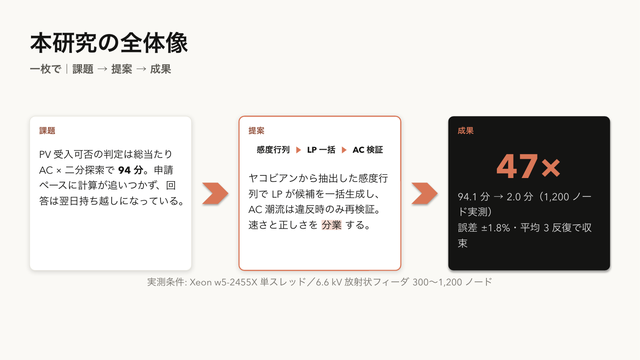
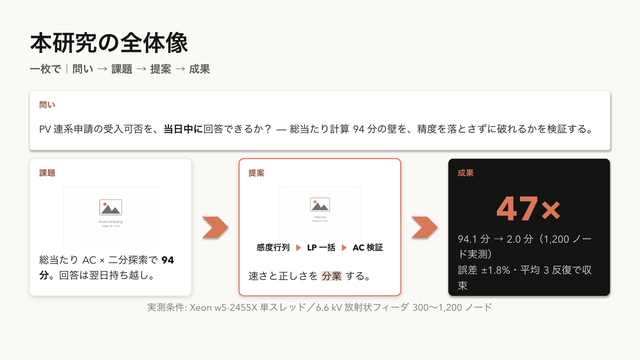
Structural graphical abstracts: figures inside panels + a question band
「いろんな図が構造的に並ぶのが重要」— a real GA is a composition of
figures, not three text cards:

- every ga-* panel accepts an ![](path) figure — drawn aspect-true
  between the label and the text, capped at 2.4in, and fitted to
  whatever height remains after the body/kpi/steps reserve their room
  (a portrait figure can no longer starve the text into overflow);
  missing files get the themed placeholder, so the GA too can ship
  frames first
- ga-top: an optional full-width band above the row for the research
  question / background (label + body + optional right-aligned figure)
- template 58 shows the structural form (question band + figure slots)

181 passed; the live Attention demo GA (auto-extracted Figure 2 inside
the method panel) is doctor-clean; gallery regenerated.

Claude-Session: https://claude.ai/code/session_017fP3X4NokWzessKVkvdYeN

diff --git a/src/marp_pptx/builder.py b/src/marp_pptx/builder.py
@@ -2759,10 +2759,41 @@ class PptxBuilder:
         pad = int(Pt(14))
         inner = pw - pad * 2
         label_h = int(Inches(0.34))
-        # measure: tallest panel decides the shared height
+
+        def _panel_img_h(pdata, width):
+            """Height the panel's figure takes at `width` (aspect-true,
+            capped) — placeholders count like a 16:10 image."""
+            if not pdata.get("image"):
+                return 0
+            f = self._image_or_placeholder(pdata["image"])
+            if not f:
+                return 0
+            from PIL import Image as PImage
+            with PImage.open(f) as im:
+                iw, ih = im.size
+            pdata["_img_file"] = f
+            pdata["_img_wh"] = (iw, ih)
+            return int(min(Inches(2.4), width * ih / iw))
+
+        # optional full-width top band (背景/問い) above the row
+        tdata = ga.get("top") or {}
+        top_h = 0
+        if tdata:
+            t_img_w = int(rwidth * 0.30)
+            t_img_h = _panel_img_h(tdata, t_img_w - pad)
+            t_txt_w = rwidth - pad * 2 - (t_img_w if t_img_h else 0)
+            t_body_h = int(self._estimate_text_height(
+                tdata.get("body", "").split("\n"), SZ_ZONE_B,
+                width=t_txt_w, line_spacing=LINE_BODY)) if tdata.get("body") else 0
+            top_h = max(int(Inches(0.9)),
+                        label_h + int(Pt(6)) + t_body_h + pad * 2,
+                        (t_img_h + pad * 2) if t_img_h else 0)
+
+        # measure: tallest row panel decides the shared height
         need = int(Inches(1.6))
         for key, pdata in panels:
             h = label_h + int(Pt(8))
+            h += _panel_img_h(pdata, inner) + (int(Pt(6)) if pdata.get("image") else 0)
             if key == "result" and pdata.get("kpi"):
                 h += int(Pt(SZ_METRIC.pt * 1.15 * metrics.DEFAULT_LINE_FACTOR))
             if pdata.get("steps"):
@@ -2775,8 +2806,45 @@ class PptxBuilder:
         foot = ga.get("foot", "")
         foot_h = (int(self._estimate_text_height([foot], SZ_SMALL, width=rwidth))
                   + int(Inches(0.14))) if foot else 0
-        ph = int(min(need, rheight - foot_h - int(Inches(0.1))))
-        top = rtop + max(0, (rheight - ph - foot_h) // 2)
+        band_gap = int(Inches(0.18)) if top_h else 0
+        ph = int(min(need, rheight - foot_h - top_h - band_gap - int(Inches(0.1))))
+        top = rtop + max(0, (rheight - ph - foot_h - top_h - band_gap) // 2)
+
+        if tdata:
+            tb_bx = slide.shapes.add_shape(MSO_SHAPE.ROUNDED_RECTANGLE,
+                                           rleft, int(top), rwidth, top_h)
+            tb_bx.adjustments[0] = CARD_RADIUS
+            tb_bx.fill.solid(); tb_bx.fill.fore_color.rgb = self.LIGHT
+            tb_bx.line.color.rgb = self.HAIRLINE
+            tb_bx.line.width = HAIRLINE_W
+            self._no_shadow(tb_bx)
+            ty = top + pad
+            lb = self._add_textbox(slide, int(rleft + pad), int(ty),
+                                   int(rwidth - pad * 2), label_h)
+            self._kicker_para(lb.text_frame.paragraphs[0],
+                              tdata.get("label", "背景"),
+                              color=self._text_safe(self.ACCENT, self.LIGHT),
+                              tracking=160)
+            ty += label_h + int(Pt(4))
+            if tdata.get("_img_file"):
+                iw, ih = tdata["_img_wh"]
+                dw = int(rwidth * 0.30) - pad
+                dh = int(min(top_h - pad * 2 - label_h, dw * ih / iw))
+                dw = int(dh * iw / ih)
+                slide.shapes.add_picture(tdata["_img_file"],
+                                         int(rleft + rwidth - pad - dw),
+                                         int(top + (top_h - dh) // 2), dw, dh)
+            if tdata.get("body"):
+                t_txt_w = rwidth - pad * 2 - (int(rwidth * 0.30)
+                                              if tdata.get("_img_file") else 0)
+                bb = self._add_textbox(slide, int(rleft + pad), int(ty),
+                                       int(t_txt_w), int(top + top_h - pad - ty))
+                tf = bb.text_frame; tf.word_wrap = True
+                for j, line in enumerate(tdata["body"].split("\n")):
+                    pl = tf.paragraphs[0] if j == 0 else tf.add_paragraph()
+                    self._set_rich_text(pl, line, SZ_ZONE_B, self.FG)
+                    pl.line_spacing = LINE_BODY
+            top += top_h + band_gap
 
         x = rleft
         for pi, (key, pdata) in enumerate(panels):
@@ -2810,6 +2878,31 @@ class PptxBuilder:
                      else self._text_safe(self.ACCENT, self.SURFACE))
             self._kicker_para(lp, label, color=l_col, tracking=160)
             cy += label_h + int(Pt(4))
+            if pdata.get("_img_file"):
+                # Reserve the text blocks first; the figure takes what's left
+                # (a portrait figure must not starve the body into overflow).
+                reserved = 0
+                if key == "result" and pdata.get("kpi"):
+                    reserved += int(Pt(SZ_METRIC.pt * 1.15
+                                       * metrics.DEFAULT_LINE_FACTOR))
+                if pdata.get("steps"):
+                    reserved += int(Inches(0.5))
+                if pdata.get("body"):
+                    reserved += int(self._estimate_text_height(
+                        pdata["body"].split("\n"), SZ_ZONE_B, width=inner,
+                        line_spacing=LINE_BODY))
+                max_img_h = (top + ph - pad) - cy - reserved - int(Pt(6))
+                iw, ih = pdata["_img_wh"]
+                dh = int(min(Inches(2.4), inner * ih / iw, max(max_img_h, 0)))
+                if dh >= int(Inches(0.45)):
+                    dw = int(min(inner, dh * iw / ih))
+                    slide.shapes.add_picture(pdata["_img_file"],
+                                             int(x + pad + (inner - dw) // 2),
+                                             int(cy), dw, dh)
+                    cy += dh + int(Pt(6))
+                else:
+                    self._warn("graphical-abstract: panel figure skipped "
+                               f"({pdata.get('image')}) — no room left beside the text")
 
             if key == "result" and pdata.get("kpi"):
                 kpi_h = int(Pt(SZ_METRIC.pt * 1.15 * metrics.DEFAULT_LINE_FACTOR))

diff --git a/src/marp_pptx/parser.py b/src/marp_pptx/parser.py
@@ -1053,7 +1053,7 @@ def parse_slide(index: int, raw: str) -> SlideData:
                     break
 
     elif cls == "graphical-abstract":
-        for key in ("ga-problem", "ga-method", "ga-result"):
+        for key in ("ga-top", "ga-problem", "ga-method", "ga-result"):
             div = extract_div(content, key)
             if not div:
                 continue
@@ -1064,6 +1064,9 @@ def parse_slide(index: int, raw: str) -> SlideData:
                                div, re.DOTALL)
                 if m2:
                     panel[attr] = text_with_breaks(m2.group(1))
+            img = re.search(r"!\[(?:w:\d+)?\]\(([^)]+)\)", div)
+            if img:
+                panel["image"] = img.group(1)
             if panel:
                 sd.ga[key.replace("ga-", "")] = panel
         foot = extract_div(content, "ga-foot")

diff --git a/src/marp_pptx/data/templates/58-graphical-abstract.md b/src/marp_pptx/data/templates/58-graphical-abstract.md
@@ -8,17 +8,24 @@ paginate: true
 
 # 本研究の全体像
 
-## 一枚で｜課題 → 提案 → 成果
+## 一枚で｜問い → 課題 → 提案 → 成果
+
+<div class="ga-top">
+  <span class="ga-label">問い</span>
+  <span class="ga-body">PV 連系申請の受入可否を、**当日中に**回答できるか？ — 総当たり計算 94 分の壁を、精度を落とさずに破れるかを検証する。</span>
+</div>
 
 <div class="ga-problem">
   <span class="ga-label">課題</span>
-  <span class="ga-body">PV 受入可否の判定は総当たり AC × 二分探索で **94 分**。申請ペースに計算が追いつかず、回答は翌日持ち越しになっている。</span>
+  ![w:400](figures/duck-curve.png)
+  <span class="ga-body">総当たり AC × 二分探索で **94 分**。回答は翌日持ち越し。</span>
 </div>
 
 <div class="ga-method">
   <span class="ga-label">提案</span>
+  ![w:400](figures/loop.png)
   <span class="ga-steps">感度行列 → LP 一括 → AC 検証</span>
-  <span class="ga-body">ヤコビアンから抽出した感度行列で LP が候補を一括生成し、AC 潮流は違反時のみ再検証。速さと正しさを ==分業== する。</span>
+  <span class="ga-body">速さと正しさを ==分業== する。</span>
 </div>
 
 <div class="ga-result">
